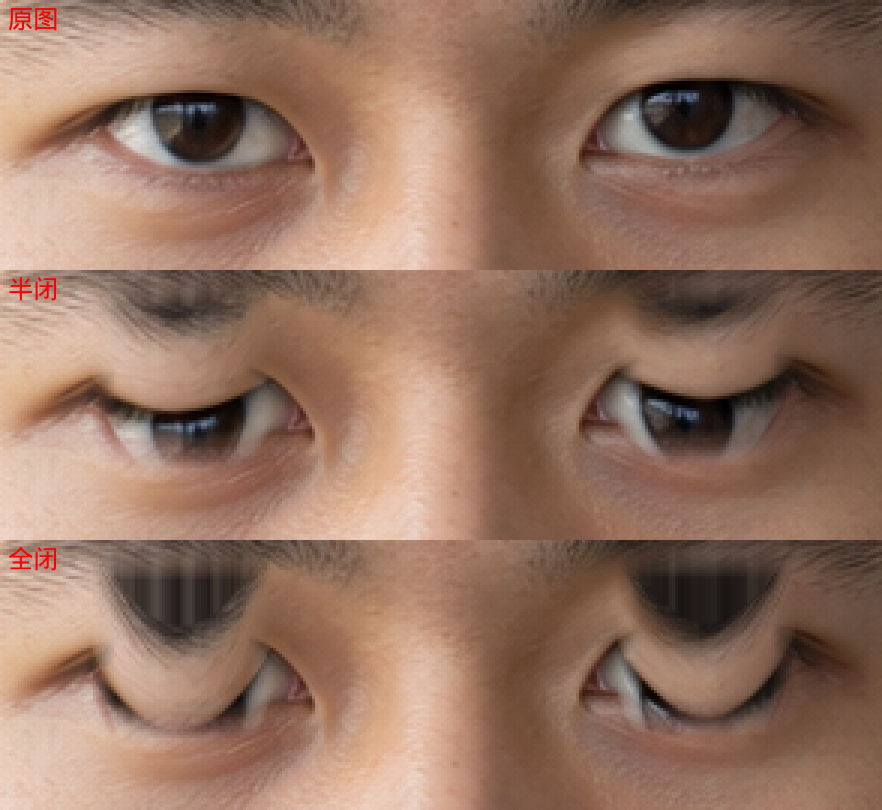
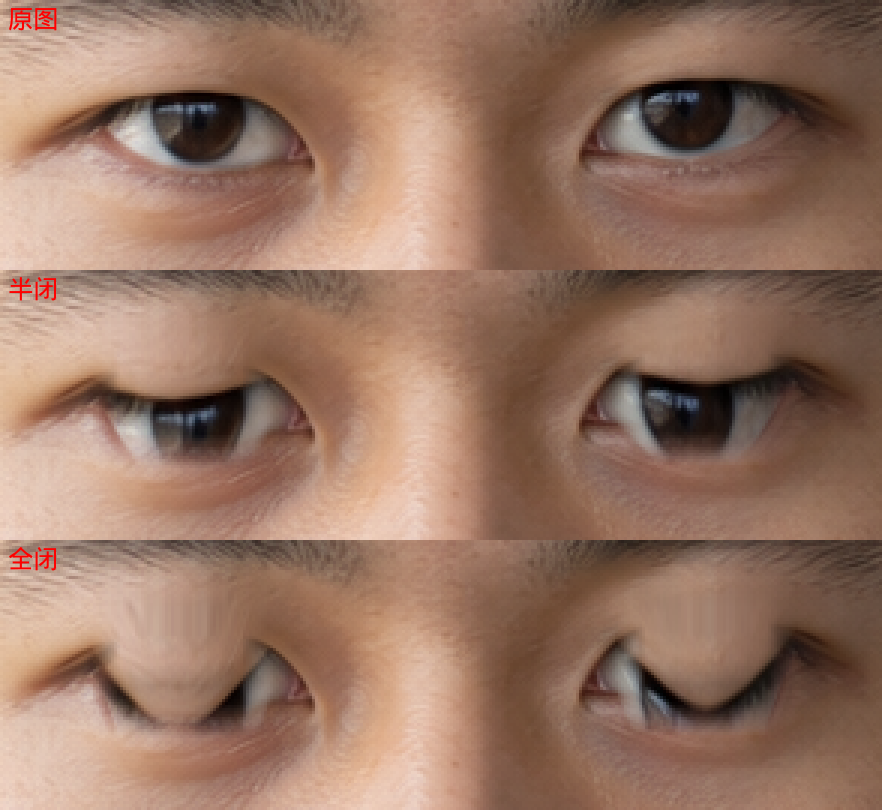
自迭代 · patch backend/avatar25d.py · 修眨眼抽搐：3 帧三角波（帧间 Δmax=1.00）改成 0.26s sin 曲线 + 短窗低通

diff --git a/backend/avatar25d.py b/backend/avatar25d.py
@@ -614,17 +614,24 @@ def _pose_curve(n, fps, energy):
     ty = np.clip(ty, -11.0, 11.0)
     scl = np.clip(scl, 0.982, 1.020)
 
-    # 眨眼：2.6~4.6 秒一次，单次 0.13 秒
+    # 眨眼：2.8~4.8 秒一次，单次 0.26 秒
+    # 原来 0.13s 在 25fps 下只有 3 帧，曲线是 0→1→0 的三角波，实测帧间
+    # Δmax=1.00 —— 一帧之内从睁到全闭，视觉上就是「抽一下」。放宽到
+    # 0.26s（6 帧）并用 sin（首尾导数为 0），闭合 40% / 睁开 60%
+    # （真人闭眼比睁眼快），帧间 Δ 降到 0.7 以下，再经下面短窗低通到 0.4。
     rng = np.random.RandomState(int(n * 7919 + 13) & 0xFFFF)
     bl = np.zeros(n, np.float32)
     ti = int(fps * rng.uniform(0.8, 2.0))
     while ti < n:
-        span = max(2, int(fps * 0.13))
+        span = max(6, int(round(fps * 0.26)))
         for j in range(span):
             if ti + j < n:
                 p = j / float(span - 1)
-                bl[ti + j] = 1.0 - abs(2.0 * p - 1.0)     # 闭-开
-        ti += int(fps * rng.uniform(2.6, 4.6))
+                if p < 0.4:
+                    bl[ti + j] = math.sin(math.pi * 0.5 * (p / 0.4))
+                else:
+                    bl[ti + j] = math.cos(math.pi * 0.5 * ((p - 0.4) / 0.6))
+        ti += int(fps * rng.uniform(2.8, 4.8))
 
     # 统一时间低通：不管上游怎么算，送进渲染的曲线必须连续 ——
     # 25fps 下逐帧 1° 的跳变就是肉眼可见的抽搐（实测 yaw 最大跳 1.09°、
